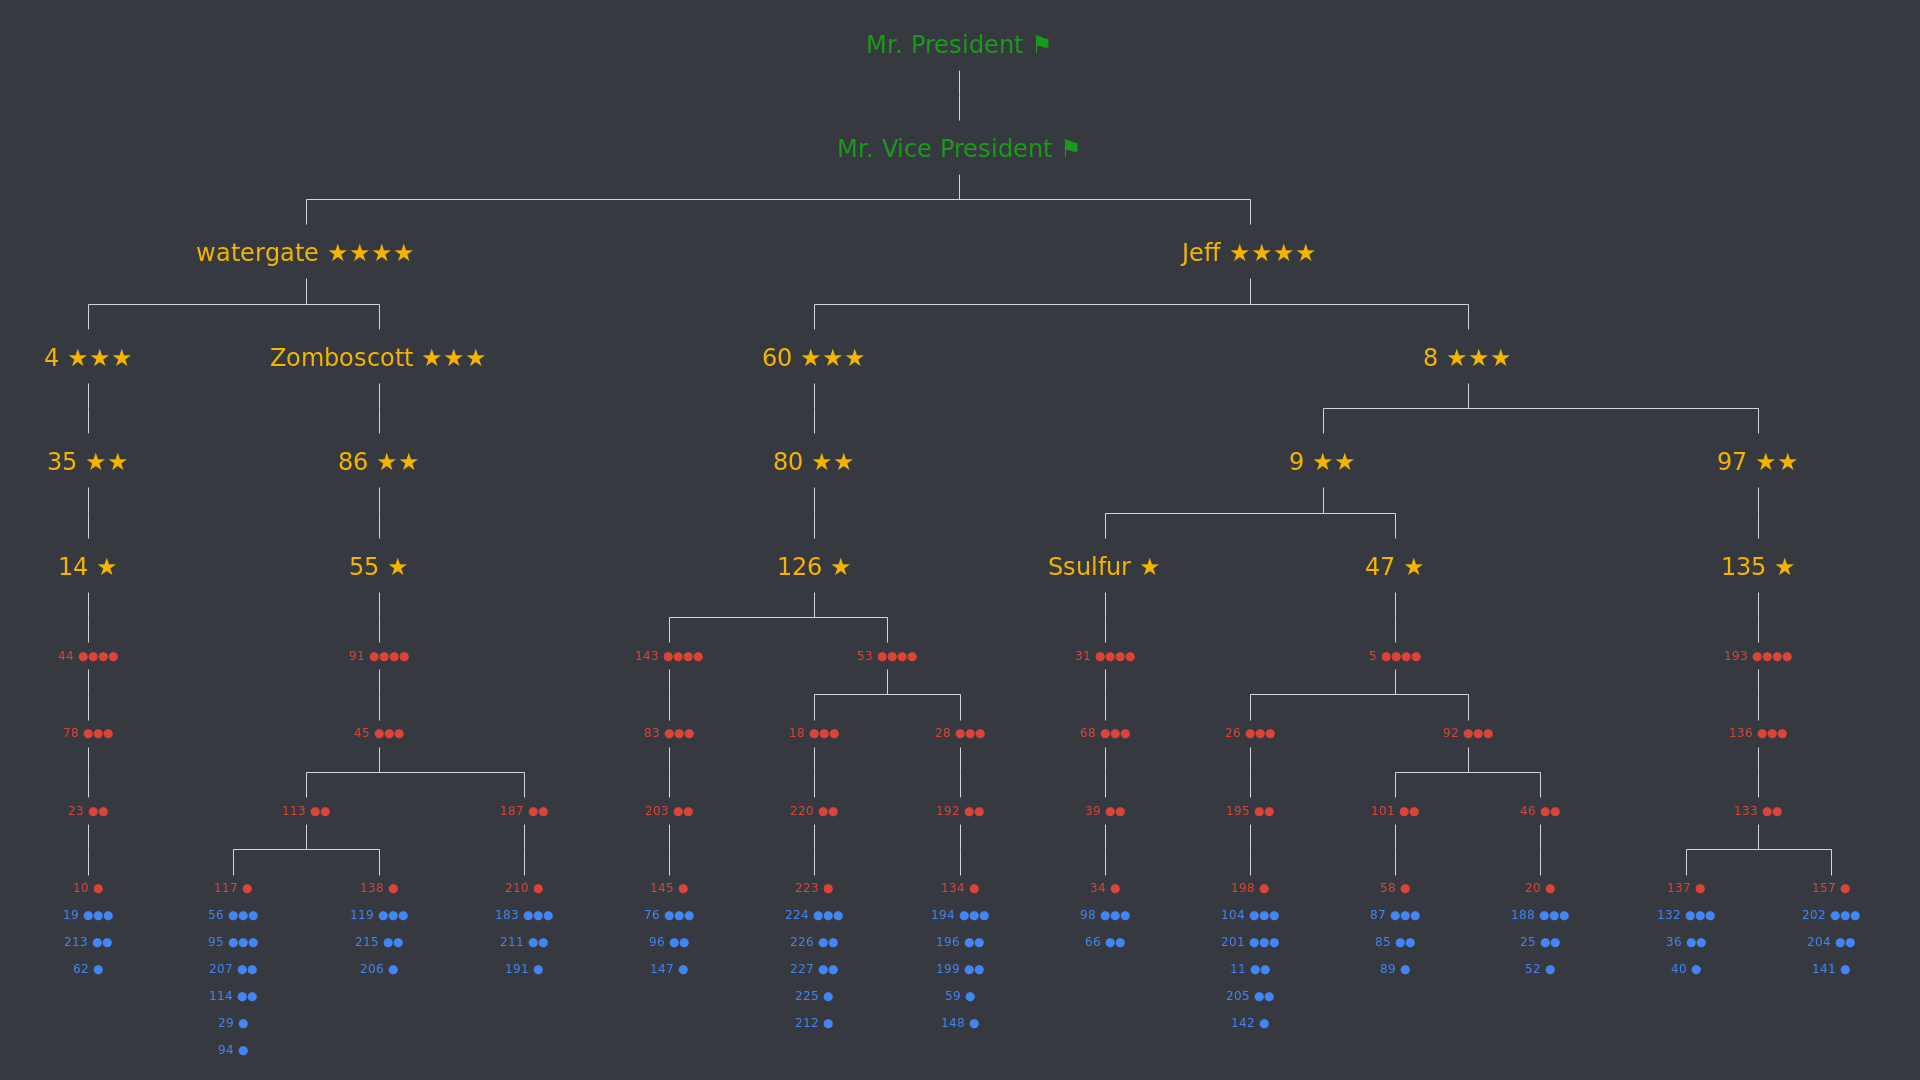
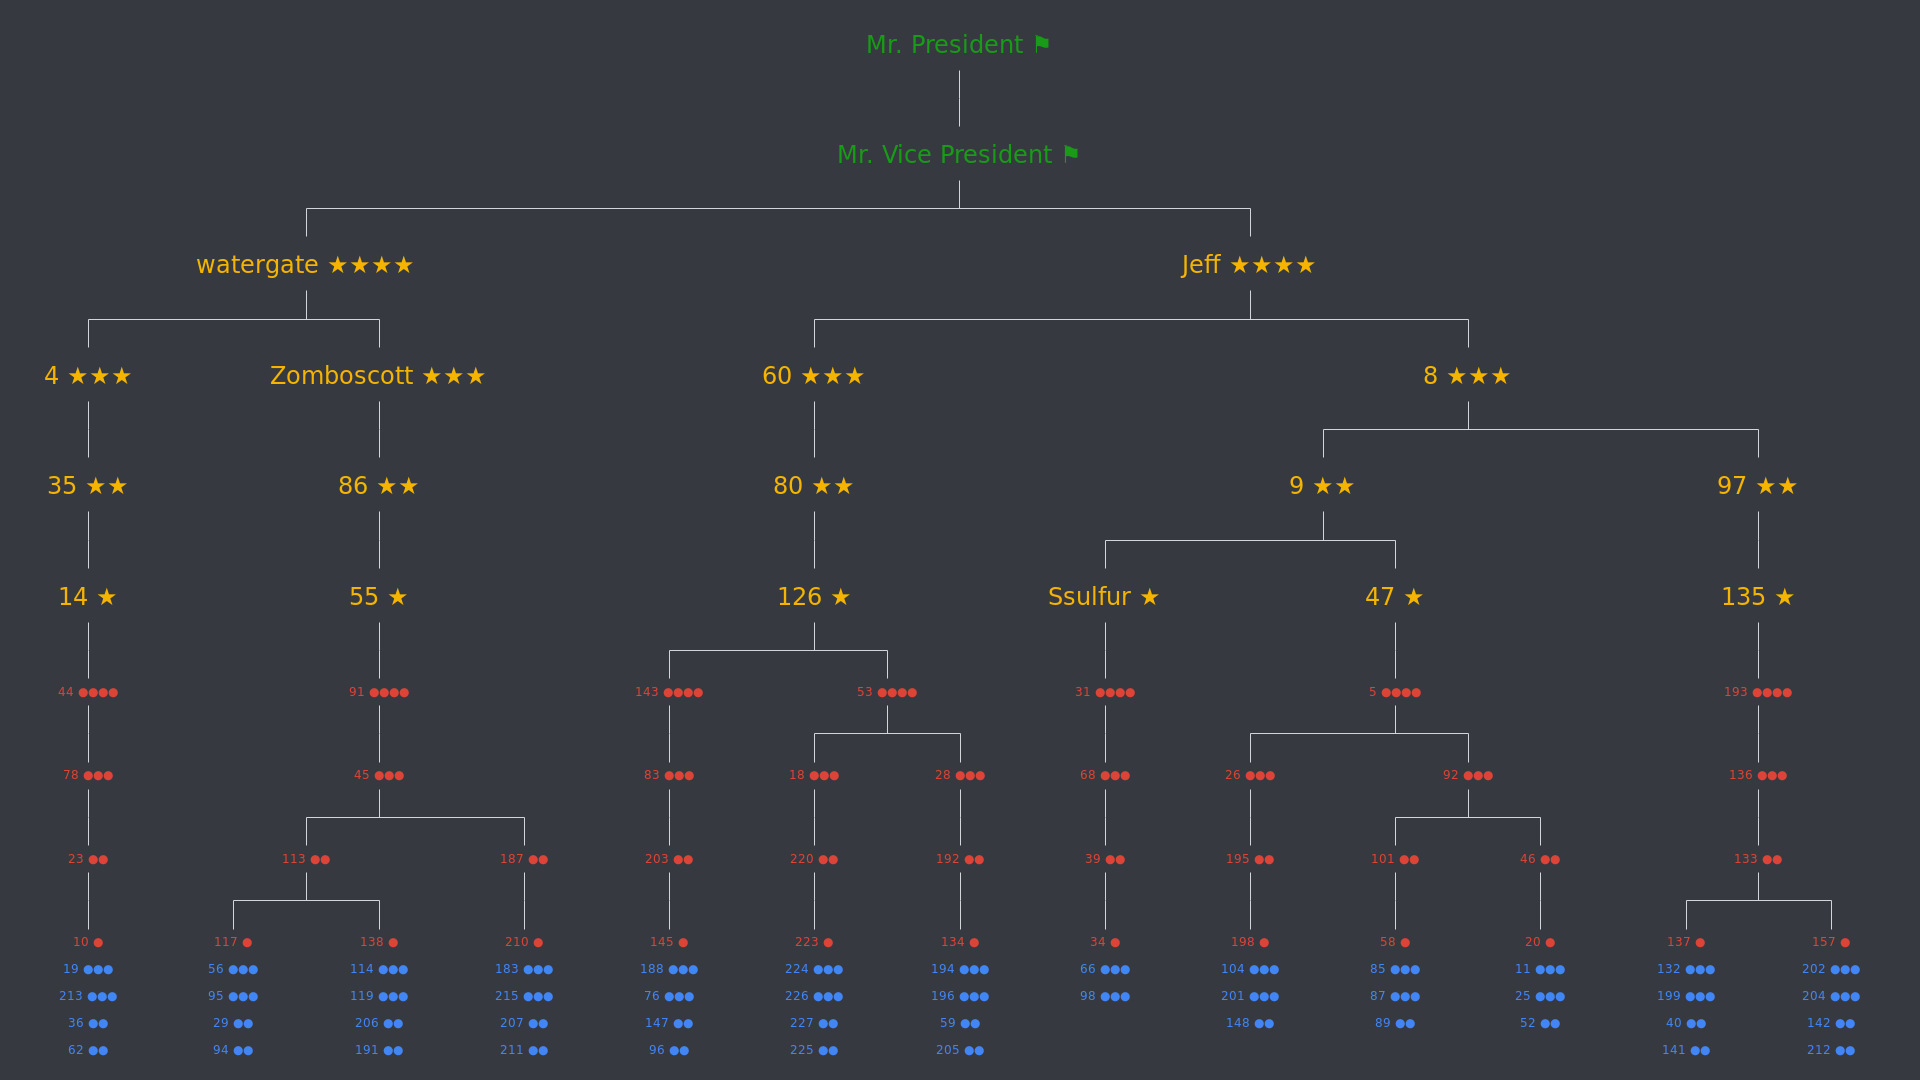
Test image rendering by comparing against an example image.

diff --git a/sample-chain-of-command.js b/sample-chain-of-command.js
@@ -5,104 +5,104 @@ module.exports = {
     7: { id: 7, rank: 2, boss: 42, children: [ 60, 8 ] },
     8: { id: 8, rank: 3, boss: 7, children: [ 9, 97 ] },
     9: { id: 9, rank: 4, boss: 8, children: [ 32, 47 ] },
-    10: { id: 10, rank: 9, boss: 23, children: [ 19 ] },
-    11: { id: 11, rank: 11, boss: 104, children: [ 142 ] },
+    10: { id: 10, rank: 9, boss: 23, children: [ 19, 213 ] },
+    11: { id: 11, rank: 10, boss: 20 },
     14: { id: 14, rank: 5, boss: 35, children: [ 44 ] },
     18: { id: 18, rank: 7, boss: 53, children: [ 220 ] },
-    19: { id: 19, rank: 10, boss: 10, children: [ 213 ] },
-    20: { id: 20, rank: 9, boss: 46, children: [ 188 ] },
+    19: { id: 19, rank: 10, boss: 10, children: [ 36 ] },
+    20: { id: 20, rank: 9, boss: 46, children: [ 11, 25 ] },
     23: { id: 23, rank: 8, boss: 78, children: [ 10 ] },
-    25: { id: 25, rank: 11, boss: 188, children: [ 52 ] },
+    25: { id: 25, rank: 10, boss: 20, children: [ 52 ] },
     26: { id: 26, rank: 7, boss: 5, children: [ 195 ] },
     28: { id: 28, rank: 7, boss: 53, children: [ 192 ] },
-    29: { id: 29, rank: 12, boss: 207 },
+    29: { id: 29, rank: 11, boss: 56 },
     31: { id: 31, rank: 6, boss: 32, children: [ 68 ] },
     32: { id: 32, rank: 5, boss: 9, children: [ 31 ] },
-    34: { id: 34, rank: 9, boss: 39, children: [ 98 ] },
+    34: { id: 34, rank: 9, boss: 39, children: [ 66, 98 ] },
     35: { id: 35, rank: 4, boss: 4, children: [ 14 ] },
-    36: { id: 36, rank: 11, boss: 132, children: [ 40 ] },
+    36: { id: 36, rank: 11, boss: 19 },
     38: { id: 38, rank: 2, boss: 42, children: [ 4, 77 ] },
     39: { id: 39, rank: 8, boss: 68, children: [ 34 ] },
-    40: { id: 40, rank: 12, boss: 36 },
+    40: { id: 40, rank: 11, boss: 132 },
     42: { id: 42, rank: 1, boss: 6, children: [ 38, 7 ] },
     44: { id: 44, rank: 6, boss: 14, children: [ 78 ] },
     45: { id: 45, rank: 7, boss: 91, children: [ 113, 187 ] },
     46: { id: 46, rank: 8, boss: 92, children: [ 20 ] },
     47: { id: 47, rank: 5, boss: 9, children: [ 5 ] },
-    52: { id: 52, rank: 12, boss: 25 },
+    52: { id: 52, rank: 11, boss: 25 },
     53: { id: 53, rank: 6, boss: 126, children: [ 18, 28 ] },
     55: { id: 55, rank: 5, boss: 86, children: [ 91 ] },
-    56: { id: 56, rank: 10, boss: 117, children: [ 207 ] },
-    58: { id: 58, rank: 9, boss: 101, children: [ 87 ] },
-    59: { id: 59, rank: 12, boss: 196 },
+    56: { id: 56, rank: 10, boss: 117, children: [ 29 ] },
+    58: { id: 58, rank: 9, boss: 101, children: [ 85, 87 ] },
+    59: { id: 59, rank: 11, boss: 194 },
     60: { id: 60, rank: 3, boss: 7, children: [ 80 ] },
-    62: { id: 62, rank: 12, boss: 213 },
-    66: { id: 66, rank: 11, boss: 98 },
+    62: { id: 62, rank: 11, boss: 213 },
+    66: { id: 66, rank: 10, boss: 34 },
     68: { id: 68, rank: 7, boss: 31, children: [ 39 ] },
     76: { id: 76, rank: 10, boss: 145, children: [ 96 ] },
     77: { id: 77, rank: 3, boss: 38, children: [ 86 ] },
     78: { id: 78, rank: 7, boss: 44, children: [ 23 ] },
     80: { id: 80, rank: 4, boss: 60, children: [ 126 ] },
     83: { id: 83, rank: 7, boss: 143, children: [ 203 ] },
-    85: { id: 85, rank: 11, boss: 87, children: [ 89 ] },
+    85: { id: 85, rank: 10, boss: 58 },
     86: { id: 86, rank: 4, boss: 77, children: [ 55 ] },
-    87: { id: 87, rank: 10, boss: 58, children: [ 85 ] },
-    89: { id: 89, rank: 12, boss: 85 },
+    87: { id: 87, rank: 10, boss: 58, children: [ 89 ] },
+    89: { id: 89, rank: 11, boss: 87 },
     91: { id: 91, rank: 6, boss: 55, children: [ 45 ] },
     92: { id: 92, rank: 7, boss: 5, children: [ 101, 46 ] },
-    94: { id: 94, rank: 12, boss: 114 },
-    95: { id: 95, rank: 10, boss: 117, children: [ 114 ] },
-    96: { id: 96, rank: 11, boss: 76, children: [ 147 ] },
+    94: { id: 94, rank: 11, boss: 95 },
+    95: { id: 95, rank: 10, boss: 117, children: [ 94 ] },
+    96: { id: 96, rank: 11, boss: 76 },
     97: { id: 97, rank: 4, boss: 8, children: [ 135 ] },
-    98: { id: 98, rank: 10, boss: 34, children: [ 66 ] },
+    98: { id: 98, rank: 10, boss: 34 },
     101: { id: 101, rank: 8, boss: 92, children: [ 58 ] },
-    104: { id: 104, rank: 10, boss: 198, children: [ 11 ] },
+    104: { id: 104, rank: 10, boss: 198, children: [ 148 ] },
     113: { id: 113, rank: 8, boss: 45, children: [ 117, 138 ] },
-    114: { id: 114, rank: 11, boss: 95, children: [ 94 ] },
+    114: { id: 114, rank: 10, boss: 138, children: [ 206 ] },
     117: { id: 117, rank: 9, boss: 113, children: [ 56, 95 ] },
-    119: { id: 119, rank: 10, boss: 138, children: [ 215 ] },
+    119: { id: 119, rank: 10, boss: 138, children: [ 191 ] },
     126: { id: 126, rank: 5, boss: 80, children: [ 143, 53 ] },
-    132: { id: 132, rank: 10, boss: 137, children: [ 36 ] },
+    132: { id: 132, rank: 10, boss: 137, children: [ 40 ] },
     133: { id: 133, rank: 8, boss: 136, children: [ 137, 157 ] },
-    134: { id: 134, rank: 9, boss: 192, children: [ 194 ] },
+    134: { id: 134, rank: 9, boss: 192, children: [ 194, 196 ] },
     135: { id: 135, rank: 5, boss: 97, children: [ 193 ] },
     136: { id: 136, rank: 7, boss: 193, children: [ 133 ] },
-    137: { id: 137, rank: 9, boss: 133, children: [ 132 ] },
-    138: { id: 138, rank: 9, boss: 113, children: [ 119 ] },
-    141: { id: 141, rank: 12, boss: 204 },
-    142: { id: 142, rank: 12, boss: 11 },
+    137: { id: 137, rank: 9, boss: 133, children: [ 132, 199 ] },
+    138: { id: 138, rank: 9, boss: 113, children: [ 114, 119 ] },
+    141: { id: 141, rank: 11, boss: 199 },
+    142: { id: 142, rank: 11, boss: 202 },
     143: { id: 143, rank: 6, boss: 126, children: [ 83 ] },
-    145: { id: 145, rank: 9, boss: 203, children: [ 76 ] },
-    147: { id: 147, rank: 12, boss: 96 },
-    148: { id: 148, rank: 12, boss: 199 },
-    157: { id: 157, rank: 9, boss: 133, children: [ 202 ] },
-    183: { id: 183, rank: 10, boss: 210, children: [ 211 ] },
+    145: { id: 145, rank: 9, boss: 203, children: [ 188, 76 ] },
+    147: { id: 147, rank: 11, boss: 188 },
+    148: { id: 148, rank: 11, boss: 104 },
+    157: { id: 157, rank: 9, boss: 133, children: [ 202, 204 ] },
+    183: { id: 183, rank: 10, boss: 210, children: [ 207 ] },
     187: { id: 187, rank: 8, boss: 45, children: [ 210 ] },
-    188: { id: 188, rank: 10, boss: 20, children: [ 25 ] },
-    191: { id: 191, rank: 12, boss: 211 },
+    188: { id: 188, rank: 10, boss: 145, children: [ 147 ] },
+    191: { id: 191, rank: 11, boss: 119 },
     192: { id: 192, rank: 8, boss: 28, children: [ 134 ] },
     193: { id: 193, rank: 6, boss: 135, children: [ 136 ] },
-    194: { id: 194, rank: 10, boss: 134, children: [ 196, 199 ] },
+    194: { id: 194, rank: 10, boss: 134, children: [ 59 ] },
     195: { id: 195, rank: 8, boss: 26, children: [ 198 ] },
-    196: { id: 196, rank: 11, boss: 194, children: [ 59 ] },
+    196: { id: 196, rank: 10, boss: 134, children: [ 205 ] },
     198: { id: 198, rank: 9, boss: 195, children: [ 104, 201 ] },
-    199: { id: 199, rank: 11, boss: 194, children: [ 148 ] },
-    201: { id: 201, rank: 10, boss: 198, children: [ 205 ] },
-    202: { id: 202, rank: 10, boss: 157, children: [ 204 ] },
+    199: { id: 199, rank: 10, boss: 137, children: [ 141 ] },
+    201: { id: 201, rank: 10, boss: 198 },
+    202: { id: 202, rank: 10, boss: 157, children: [ 142 ] },
     203: { id: 203, rank: 8, boss: 83, children: [ 145 ] },
-    204: { id: 204, rank: 11, boss: 202, children: [ 141 ] },
-    205: { id: 205, rank: 11, boss: 201 },
-    206: { id: 206, rank: 12, boss: 215 },
-    207: { id: 207, rank: 11, boss: 56, children: [ 29 ] },
-    210: { id: 210, rank: 9, boss: 187, children: [ 183 ] },
-    211: { id: 211, rank: 11, boss: 183, children: [ 191 ] },
-    212: { id: 212, rank: 12, boss: 227 },
-    213: { id: 213, rank: 11, boss: 19, children: [ 62 ] },
-    215: { id: 215, rank: 11, boss: 119, children: [ 206 ] },
+    204: { id: 204, rank: 10, boss: 157, children: [ 212 ] },
+    205: { id: 205, rank: 11, boss: 196 },
+    206: { id: 206, rank: 11, boss: 114 },
+    207: { id: 207, rank: 11, boss: 183 },
+    210: { id: 210, rank: 9, boss: 187, children: [ 183, 215 ] },
+    211: { id: 211, rank: 11, boss: 215 },
+    212: { id: 212, rank: 11, boss: 204 },
+    213: { id: 213, rank: 10, boss: 10, children: [ 62 ] },
+    215: { id: 215, rank: 10, boss: 210, children: [ 211 ] },
     220: { id: 220, rank: 8, boss: 18, children: [ 223 ] },
-    223: { id: 223, rank: 9, boss: 220, children: [ 224 ] },
-    224: { id: 224, rank: 10, boss: 223, children: [ 226, 227 ] },
-    225: { id: 225, rank: 12, boss: 226 },
-    226: { id: 226, rank: 11, boss: 224, children: [ 225 ] },
-    227: { id: 227, rank: 11, boss: 224, children: [ 212 ] },
+    223: { id: 223, rank: 9, boss: 220, children: [ 224, 226 ] },
+    224: { id: 224, rank: 10, boss: 223, children: [ 227 ] },
+    225: { id: 225, rank: 11, boss: 226 },
+    226: { id: 226, rank: 10, boss: 223, children: [ 225 ] },
+    227: { id: 227, rank: 11, boss: 224 },
 };

diff --git a/rank-test.js b/rank-test.js
@@ -118,6 +118,23 @@ describe('Rank', function() {
 	// the algorithm is deterministic.
 	assert.deepEqual(chain, sampleChainOfCommand);
     });
+    it('Render the chain of command as an image', () => {
+	const nicknames = {
+	    6: 'Brobob',
+	    7: 'Jeff',
+	    32: 'Ssulfur',
+	    38: 'watergate',
+	    42: 'Cheatx',
+	    77: 'Zomboscott',
+	};
+	const canvas = rank.RenderChainOfCommand(sampleChainOfCommand, nicknames);
+	const buf = canvas.toBuffer();
+	fs.writeFileSync('sample-chain-of-command-tmp.png', buf);
+	// Load the written file back in and compare it to the expected output file.
+	const actual = fs.readFileSync('sample-chain-of-command-tmp.png');
+	const expected = fs.readFileSync('sample-chain-of-command.png');
+	assert(actual.equals(expected));
+    });
     it('Term limits', () => {
 	const presidentID = 2;
 	const candidates = [1, 2, 3];
@@ -131,19 +148,6 @@ describe('Rank', function() {
 	    1: { id: 1, boss: 2, children: [3], rank: 1 },  // Vice President.
 	    3: { id: 3, boss: 1, rank: 2 },  // General 4.
 	});
-    });
-    it('Render the chain of command as an image', () => {
-	const nicknames = {
-	    6: 'Brobob',
-	    7: 'Jeff',
-	    32: 'Ssulfur',
-	    38: 'watergate',
-	    42: 'Cheatx',
-	    77: 'Zomboscott',
-	};
-	const canvas = rank.RenderChainOfCommand(sampleChainOfCommand, nicknames);
-	const buf = canvas.toBuffer();
-	fs.writeFileSync('sample-chain-of-command.png', buf);
     });
     it('Relationships to time matrix', () => {
 	const candidates = [1, 2, 3];
